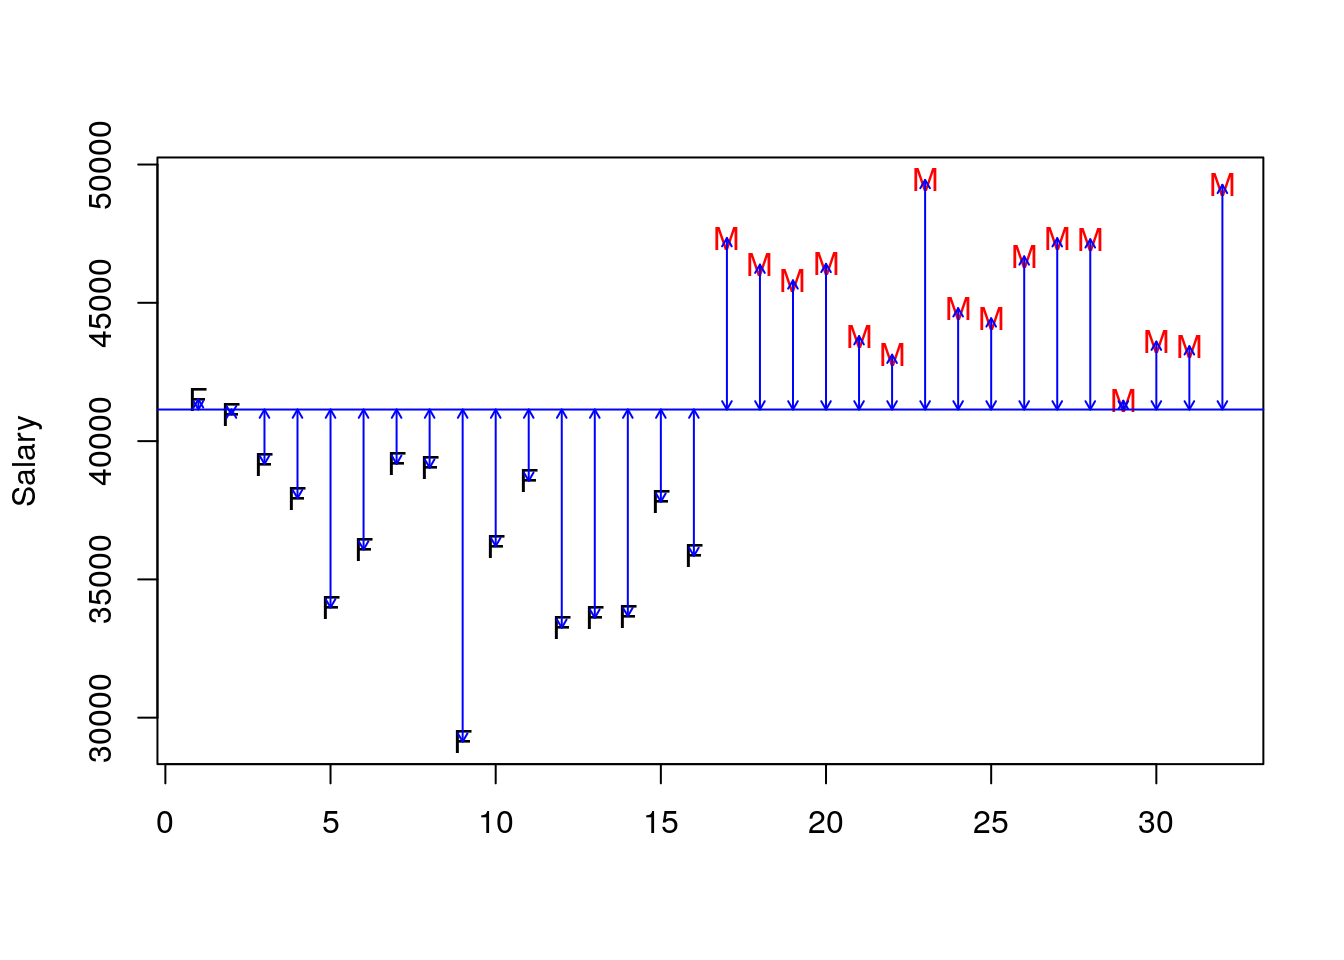
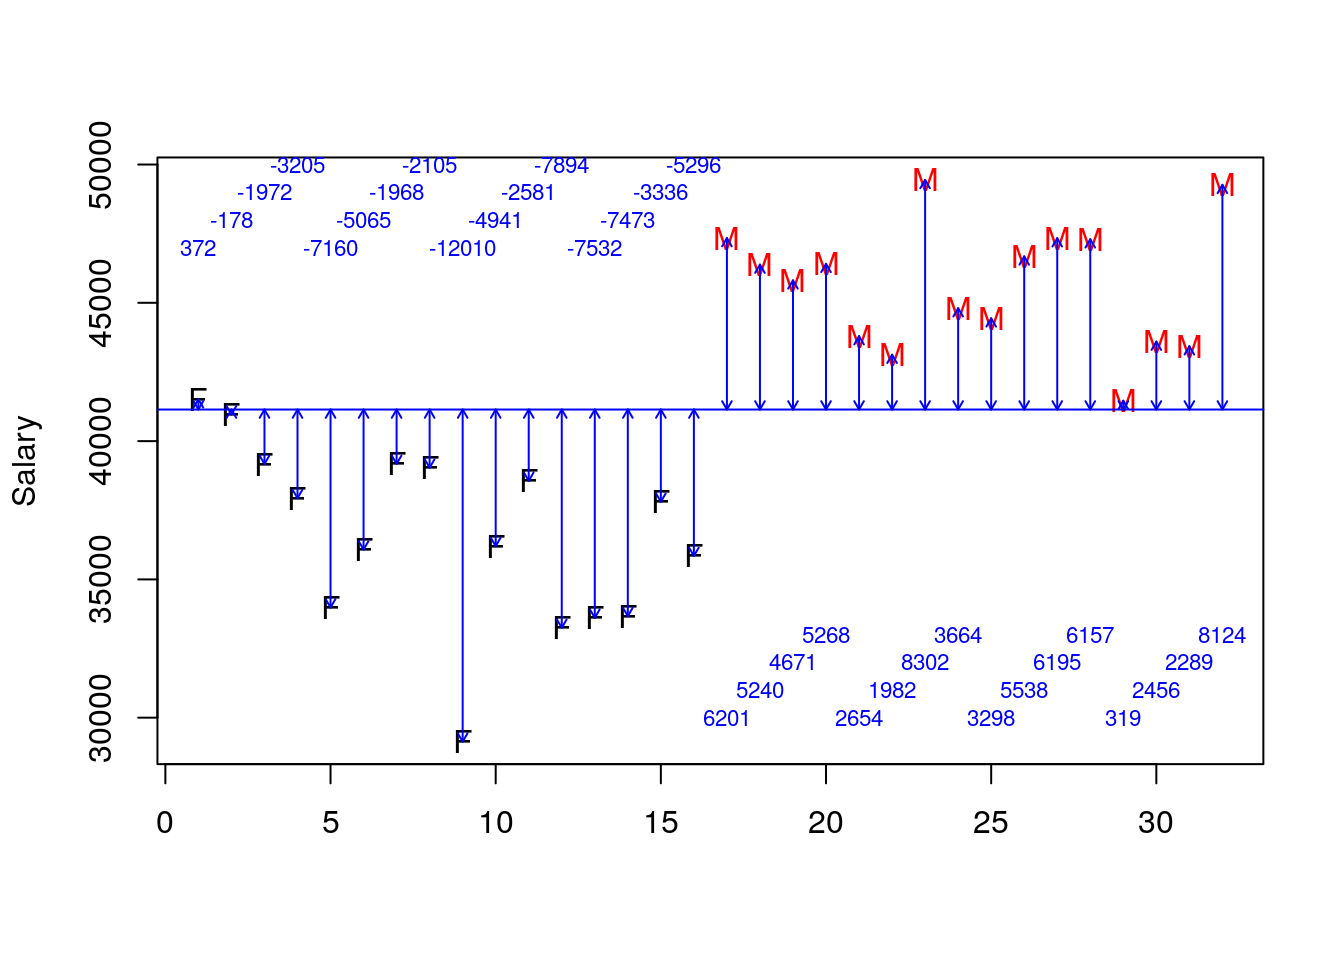
Updated post

diff --git a/public/post/black-boxes-a-gender-gap-example/index.html b/public/post/black-boxes-a-gender-gap-example/index.html
@@ -368,10 +368,13 @@ black.box.maker &lt;- function(mod1) {
             polygon(x=c(0,0,rt1,rt1), y=c(0,rt1,rt1,0), col=&quot;black&quot;)
             polygon(x=c(0,0,rt2,rt2), y=c(0,rt2,rt2,0), col=&quot;green&quot;)
             }</code></pre>
-<p>OregonSalaries contains 32 observations: 16 males and 16 females. The mean of all salaries is 41142.4330581; let me put that in a plot in blue. The total sum of squares can be represented as the sum of all the squared distances to the blue line; each vertical distance is demarcated with an arrow below in blue. The total sum of squares: the total area of the black box in the original metric (squared dollars) is: 892955384.313085.</p>
-<pre class="r"><code>plot(y=OregonSalaries$Salary, x=c(1:32), ylab=&quot;Salary&quot;, col=as.factor(OregonSalaries$Gender), xlab=&quot;&quot;, pch=c(rep(&quot;F&quot;,16),rep(&quot;M&quot;,16)))
+<p>OregonSalaries contains 32 observations: 16 males and 16 females. The mean of all salaries is 41142.433; let me put that in a plot in blue. The total sum of squares can be represented as the sum of all the squared distances to the blue line; each vertical distance is demarcated with an arrow below in blue. The distance from the point to the line is also shown in blue. The total sum of squares: the total area of the black box in the original metric (squared dollars) is: 892955385.</p>
+<pre class="r"><code>ORSalScale &lt;- scale(OregonSalaries$Salary, scale=FALSE)
+plot(y=OregonSalaries$Salary, x=c(1:32), ylab=&quot;Salary&quot;, col=as.factor(OregonSalaries$Gender), xlab=&quot;&quot;, pch=c(rep(&quot;F&quot;,16),rep(&quot;M&quot;,16)))
 abline(h=mean(OregonSalaries$Salary), col=&quot;blue&quot;)
-arrows(x0=c(1:32), x1=c(1:32), y1=OregonSalaries$Salary,y0=mean(OregonSalaries$Salary), col=&quot;blue&quot;, code=3, length=0.05)</code></pre>
+arrows(x0=c(1:32), x1=c(1:32), y1=OregonSalaries$Salary,y0=mean(OregonSalaries$Salary), col=&quot;blue&quot;, code=3, length=0.05)
+text(x=seq(1,16), y=rep(c(47000,48000,49000,50000),4), labels = paste(ceiling(ORSalScale[c(1:16)])), cex=0.7, col=&quot;blue&quot;)
+text(x=c(17:32), y=rep(c(30000,31000,32000,33000),4), labels = paste(ceiling(ORSalScale[c(17:32)])), cex=0.7, col=&quot;blue&quot;)</code></pre>
 <p><img src="/post/2018-02-22-black-boxes-a-gender-gap-example_files/figure-html/PlotG-1.png" width="672" /></p>
 </div>
 <div id="invoking-the-function" class="section level2">
@@ -385,27 +388,25 @@ black.box.maker(mod1)</code></pre>
 <h2>A Regression Model</h2>
 <p>First, a regression model. I will estimate the following regression:</p>
 <p><span class="math display">\[ Salary_{i} = \alpha + \beta_{1}*Gender_{i} + \epsilon \]</span></p>
-<p>What does the regression imply? That salary for each individual <span class="math inline">\(i\)</span> is a function of a constant and gender. Given the way that R works, <span class="math inline">\(\alpha\)</span> will represent the average for females and <span class="math inline">\(\beta\)</span> will represent the difference between male and female average salaries. Here is a plot of the substance of the result.</p>
-<pre class="r"><code>library(gplots)</code></pre>
-<pre><code>## 
-## Attaching package: &#39;gplots&#39;</code></pre>
-<pre><code>## The following object is masked from &#39;package:stats&#39;:
-## 
-##     lowess</code></pre>
-<pre class="r"><code>plotmeans(Salary~Gender, data=OregonSalaries, ci.label = T, n.label = F, ylim=c(33000,50000))</code></pre>
-<p><img src="/post/2018-02-22-black-boxes-a-gender-gap-example_files/figure-html/MeanPlot-1.png" width="672" /></p>
+<p>What does the regression imply? That salary for each individual <span class="math inline">\(i\)</span> is a function of a constant and gender. Given the way that R works, <span class="math inline">\(\alpha\)</span> will represent the average for females and <span class="math inline">\(\beta\)</span> will represent the difference between male and female average salaries. The <span class="math inline">\(\epsilon\)</span> will capture the difference between the individual salary and the group mean (the mean of males or females).</p>
 </div>
 <div id="a-new-residual-sum-of-squares" class="section level2">
 <h2>A New Residual Sum of Squares</h2>
-<p>The picture now has a red line and a black line and the residual/leftover/unexplained sum of squares is now the difference between the point and the respective vertical line (red arrows or black arrows). The sum of the remaining squared vertical distances is 238621276.595113. This is the amount leftover or residual given the gender.</p>
-<pre class="r"><code>plot(y=OregonSalaries$Salary, x=c(1:32), ylab=&quot;Salary&quot;, col=as.factor(OregonSalaries$Gender), xlab=&quot;&quot;, pch=c(rep(&quot;F&quot;,16),rep(&quot;M&quot;,16)))
+<p>The picture will now have a red line and a black line and the residual/leftover/unexplained sum of squares is now the difference between the point and the respective vertical line (red arrows or black arrows). What is the relationship between the datum and the group mean? The answer is shown in black/red. The sum of the remaining squared vertical distances is 238621277 is obtained by squaring the difference between each blue and black/red number.</p>
+<pre class="r"><code>resids &lt;- residuals(lm(Salary~Gender, data=OregonSalaries))
+plot(y=OregonSalaries$Salary, x=c(1:32), ylab=&quot;Salary&quot;, col=as.factor(OregonSalaries$Gender), xlab=&quot;&quot;, pch=c(rep(&quot;F&quot;,16),rep(&quot;M&quot;,16)))
 abline(h=mean(OregonSalaries$Salary), col=&quot;blue&quot;)
 abline(h=mean(subset(OregonSalaries, Gender==&quot;Female&quot;)$Salary, na.rm=T), col=&quot;black&quot;)
 abline(h=mean(subset(OregonSalaries, Gender==&quot;Male&quot;)$Salary, na.rm=T), col=&quot;red&quot;)
 arrows(x0=c(1:32), x1=c(1:32), y1=OregonSalaries$Salary,y0=mean(OregonSalaries$Salary), col=&quot;blue&quot;, code=3, length=0.05)
 arrows(x0=c(1:16), x1=c(1:16), y1=OregonSalaries$Salary[c(1:16)],y0=mean(subset(OregonSalaries, Gender==&quot;Female&quot;)$Salary, na.rm=T), col=&quot;black&quot;, code=3, length=0.05)
-arrows(x0=c(17:32), x1=c(17:32), y1=OregonSalaries$Salary[c(17:32)],y0=mean(subset(OregonSalaries, Gender==&quot;Male&quot;)$Salary, na.rm=T), col=&quot;red&quot;, code=3, length=0.05)</code></pre>
+arrows(x0=c(17:32), x1=c(17:32), y1=OregonSalaries$Salary[c(17:32)],y0=mean(subset(OregonSalaries, Gender==&quot;Male&quot;)$Salary, na.rm=T), col=&quot;red&quot;, code=3, length=0.05)
+text(x=seq(1,16), y=rep(c(47000,48000,49000,50000),4), labels = paste(ceiling(ORSalScale[c(1:16)])), cex=0.7, col=&quot;blue&quot;)
+text(x=c(17:32), y=rep(c(30000,31000,32000,33000),4), labels = paste(ceiling(ORSalScale[c(17:32)])), cex=0.7, col=&quot;blue&quot;)
+text(x=seq(1,16), y=rep(c(42000,43000,44000,45000),4), labels = paste(ceiling(resids[c(1:16)])), cex=0.7, col=&quot;black&quot;)
+text(x=c(17:32), y=rep(c(36000,37000,38000,39000),4), labels = paste(ceiling(resids[c(17:32)])), cex=0.7, col=&quot;red&quot;)</code></pre>
 <p><img src="/post/2018-02-22-black-boxes-a-gender-gap-example_files/figure-html/BasePlot-1.png" width="672" /></p>
+<p>The details of the regression estimates and the analysis of variance – the sums of squares – completes the rendering.</p>
 <pre class="r"><code>mod1 &lt;- lm(Salary~Gender, data=OregonSalaries)
 black.box.maker(mod1)</code></pre>
 <p><img src="/post/2018-02-22-black-boxes-a-gender-gap-example_files/figure-html/BBReg-1.png" width="672" /></p>

diff --git a/content/post/2018-02-22-black-boxes-a-gender-gap-example.html b/content/post/2018-02-22-black-boxes-a-gender-gap-example.html
@@ -41,10 +41,13 @@ black.box.maker &lt;- function(mod1) {
             polygon(x=c(0,0,rt1,rt1), y=c(0,rt1,rt1,0), col=&quot;black&quot;)
             polygon(x=c(0,0,rt2,rt2), y=c(0,rt2,rt2,0), col=&quot;green&quot;)
             }</code></pre>
-<p>OregonSalaries contains 32 observations: 16 males and 16 females. The mean of all salaries is 41142.4330581; let me put that in a plot in blue. The total sum of squares can be represented as the sum of all the squared distances to the blue line; each vertical distance is demarcated with an arrow below in blue. The total sum of squares: the total area of the black box in the original metric (squared dollars) is: 892955384.313085.</p>
-<pre class="r"><code>plot(y=OregonSalaries$Salary, x=c(1:32), ylab=&quot;Salary&quot;, col=as.factor(OregonSalaries$Gender), xlab=&quot;&quot;, pch=c(rep(&quot;F&quot;,16),rep(&quot;M&quot;,16)))
+<p>OregonSalaries contains 32 observations: 16 males and 16 females. The mean of all salaries is 41142.433; let me put that in a plot in blue. The total sum of squares can be represented as the sum of all the squared distances to the blue line; each vertical distance is demarcated with an arrow below in blue. The distance from the point to the line is also shown in blue. The total sum of squares: the total area of the black box in the original metric (squared dollars) is: 892955385.</p>
+<pre class="r"><code>ORSalScale &lt;- scale(OregonSalaries$Salary, scale=FALSE)
+plot(y=OregonSalaries$Salary, x=c(1:32), ylab=&quot;Salary&quot;, col=as.factor(OregonSalaries$Gender), xlab=&quot;&quot;, pch=c(rep(&quot;F&quot;,16),rep(&quot;M&quot;,16)))
 abline(h=mean(OregonSalaries$Salary), col=&quot;blue&quot;)
-arrows(x0=c(1:32), x1=c(1:32), y1=OregonSalaries$Salary,y0=mean(OregonSalaries$Salary), col=&quot;blue&quot;, code=3, length=0.05)</code></pre>
+arrows(x0=c(1:32), x1=c(1:32), y1=OregonSalaries$Salary,y0=mean(OregonSalaries$Salary), col=&quot;blue&quot;, code=3, length=0.05)
+text(x=seq(1,16), y=rep(c(47000,48000,49000,50000),4), labels = paste(ceiling(ORSalScale[c(1:16)])), cex=0.7, col=&quot;blue&quot;)
+text(x=c(17:32), y=rep(c(30000,31000,32000,33000),4), labels = paste(ceiling(ORSalScale[c(17:32)])), cex=0.7, col=&quot;blue&quot;)</code></pre>
 <p><img src="/post/2018-02-22-black-boxes-a-gender-gap-example_files/figure-html/PlotG-1.png" width="672" /></p>
 </div>
 <div id="invoking-the-function" class="section level2">
@@ -58,27 +61,25 @@ black.box.maker(mod1)</code></pre>
 <h2>A Regression Model</h2>
 <p>First, a regression model. I will estimate the following regression:</p>
 <p><span class="math display">\[ Salary_{i} = \alpha + \beta_{1}*Gender_{i} + \epsilon \]</span></p>
-<p>What does the regression imply? That salary for each individual <span class="math inline">\(i\)</span> is a function of a constant and gender. Given the way that R works, <span class="math inline">\(\alpha\)</span> will represent the average for females and <span class="math inline">\(\beta\)</span> will represent the difference between male and female average salaries. Here is a plot of the substance of the result.</p>
-<pre class="r"><code>library(gplots)</code></pre>
-<pre><code>## 
-## Attaching package: &#39;gplots&#39;</code></pre>
-<pre><code>## The following object is masked from &#39;package:stats&#39;:
-## 
-##     lowess</code></pre>
-<pre class="r"><code>plotmeans(Salary~Gender, data=OregonSalaries, ci.label = T, n.label = F, ylim=c(33000,50000))</code></pre>
-<p><img src="/post/2018-02-22-black-boxes-a-gender-gap-example_files/figure-html/MeanPlot-1.png" width="672" /></p>
+<p>What does the regression imply? That salary for each individual <span class="math inline">\(i\)</span> is a function of a constant and gender. Given the way that R works, <span class="math inline">\(\alpha\)</span> will represent the average for females and <span class="math inline">\(\beta\)</span> will represent the difference between male and female average salaries. The <span class="math inline">\(\epsilon\)</span> will capture the difference between the individual salary and the group mean (the mean of males or females).</p>
 </div>
 <div id="a-new-residual-sum-of-squares" class="section level2">
 <h2>A New Residual Sum of Squares</h2>
-<p>The picture now has a red line and a black line and the residual/leftover/unexplained sum of squares is now the difference between the point and the respective vertical line (red arrows or black arrows). The sum of the remaining squared vertical distances is 238621276.595113. This is the amount leftover or residual given the gender.</p>
-<pre class="r"><code>plot(y=OregonSalaries$Salary, x=c(1:32), ylab=&quot;Salary&quot;, col=as.factor(OregonSalaries$Gender), xlab=&quot;&quot;, pch=c(rep(&quot;F&quot;,16),rep(&quot;M&quot;,16)))
+<p>The picture will now have a red line and a black line and the residual/leftover/unexplained sum of squares is now the difference between the point and the respective vertical line (red arrows or black arrows). What is the relationship between the datum and the group mean? The answer is shown in black/red. The sum of the remaining squared vertical distances is 238621277 is obtained by squaring the difference between each blue and black/red number.</p>
+<pre class="r"><code>resids &lt;- residuals(lm(Salary~Gender, data=OregonSalaries))
+plot(y=OregonSalaries$Salary, x=c(1:32), ylab=&quot;Salary&quot;, col=as.factor(OregonSalaries$Gender), xlab=&quot;&quot;, pch=c(rep(&quot;F&quot;,16),rep(&quot;M&quot;,16)))
 abline(h=mean(OregonSalaries$Salary), col=&quot;blue&quot;)
 abline(h=mean(subset(OregonSalaries, Gender==&quot;Female&quot;)$Salary, na.rm=T), col=&quot;black&quot;)
 abline(h=mean(subset(OregonSalaries, Gender==&quot;Male&quot;)$Salary, na.rm=T), col=&quot;red&quot;)
 arrows(x0=c(1:32), x1=c(1:32), y1=OregonSalaries$Salary,y0=mean(OregonSalaries$Salary), col=&quot;blue&quot;, code=3, length=0.05)
 arrows(x0=c(1:16), x1=c(1:16), y1=OregonSalaries$Salary[c(1:16)],y0=mean(subset(OregonSalaries, Gender==&quot;Female&quot;)$Salary, na.rm=T), col=&quot;black&quot;, code=3, length=0.05)
-arrows(x0=c(17:32), x1=c(17:32), y1=OregonSalaries$Salary[c(17:32)],y0=mean(subset(OregonSalaries, Gender==&quot;Male&quot;)$Salary, na.rm=T), col=&quot;red&quot;, code=3, length=0.05)</code></pre>
+arrows(x0=c(17:32), x1=c(17:32), y1=OregonSalaries$Salary[c(17:32)],y0=mean(subset(OregonSalaries, Gender==&quot;Male&quot;)$Salary, na.rm=T), col=&quot;red&quot;, code=3, length=0.05)
+text(x=seq(1,16), y=rep(c(47000,48000,49000,50000),4), labels = paste(ceiling(ORSalScale[c(1:16)])), cex=0.7, col=&quot;blue&quot;)
+text(x=c(17:32), y=rep(c(30000,31000,32000,33000),4), labels = paste(ceiling(ORSalScale[c(17:32)])), cex=0.7, col=&quot;blue&quot;)
+text(x=seq(1,16), y=rep(c(42000,43000,44000,45000),4), labels = paste(ceiling(resids[c(1:16)])), cex=0.7, col=&quot;black&quot;)
+text(x=c(17:32), y=rep(c(36000,37000,38000,39000),4), labels = paste(ceiling(resids[c(17:32)])), cex=0.7, col=&quot;red&quot;)</code></pre>
 <p><img src="/post/2018-02-22-black-boxes-a-gender-gap-example_files/figure-html/BasePlot-1.png" width="672" /></p>
+<p>The details of the regression estimates and the analysis of variance – the sums of squares – completes the rendering.</p>
 <pre class="r"><code>mod1 &lt;- lm(Salary~Gender, data=OregonSalaries)
 black.box.maker(mod1)</code></pre>
 <p><img src="/post/2018-02-22-black-boxes-a-gender-gap-example_files/figure-html/BBReg-1.png" width="672" /></p>
